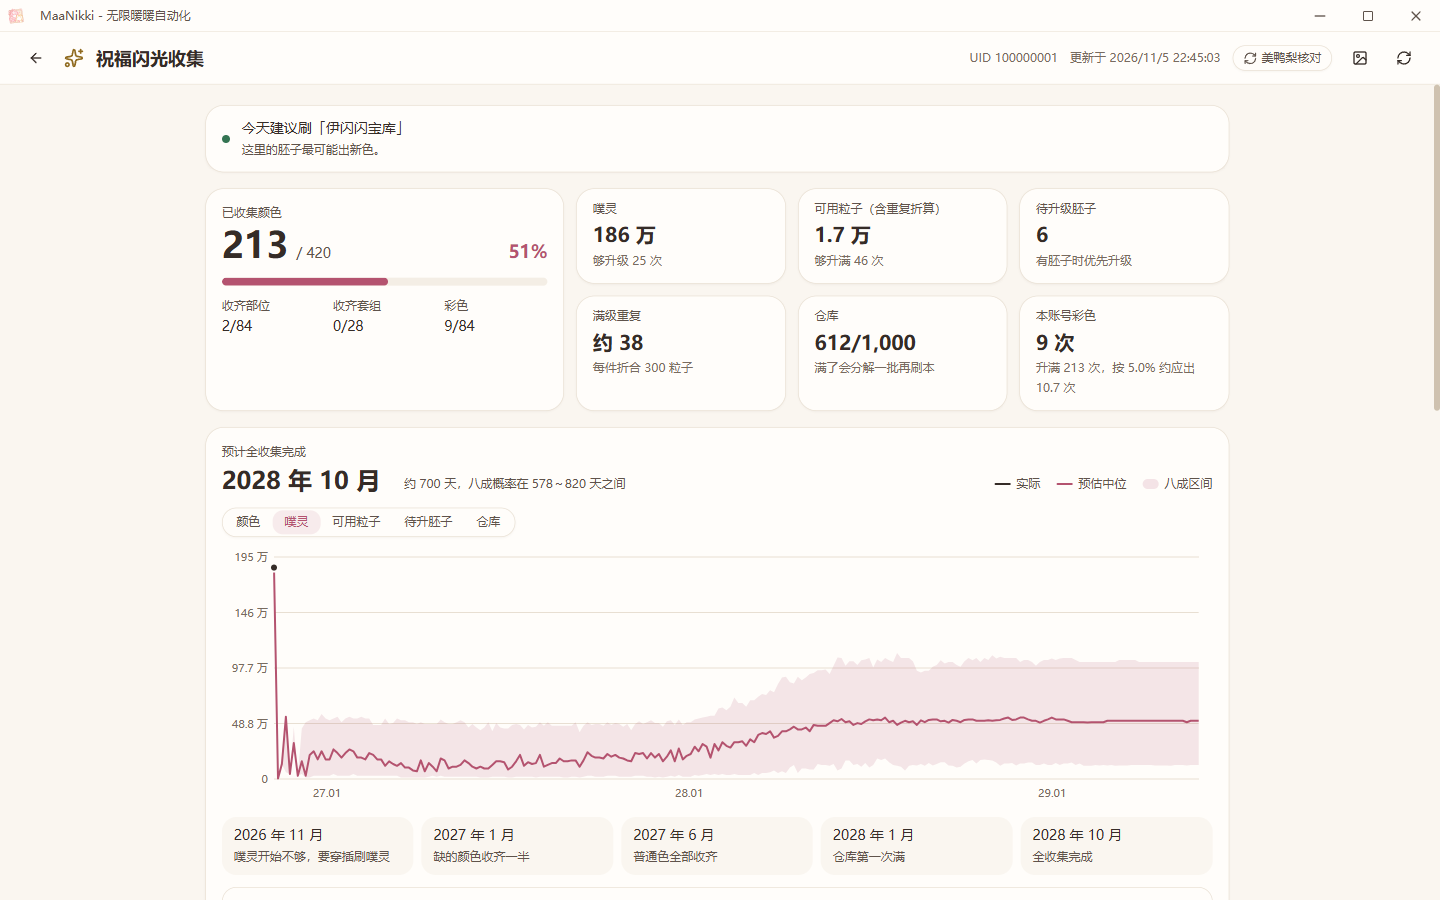
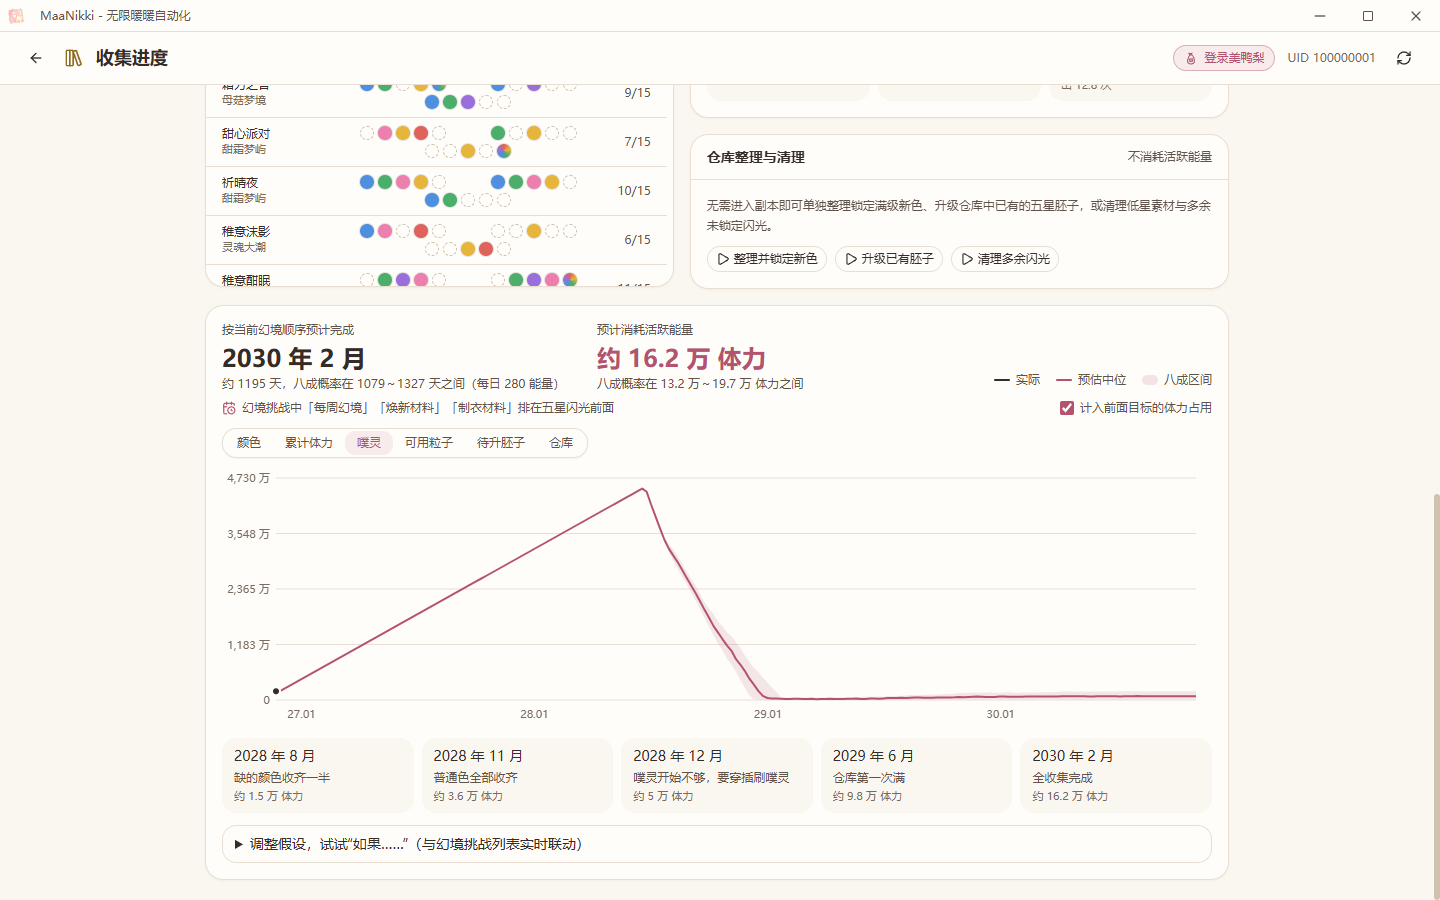
docs(readme,manual): refresh overview, manual, and UI screenshots

diff --git a/README.md b/README.md
@@ -13,7 +13,7 @@
 [![QQ群](https://img.shields.io/badge/QQ群-654174255-74a8d8)](#交流与反馈)
 [![许可](https://img.shields.io/badge/license-AGPL--3.0--only-a7bca0)](LICENSE)
 
-基于图像识别，一键完成日常，自动追全祝福闪光颜色。
+基于图像识别与全向寻路，覆盖前后台日常自动化、多目标收集与养成规划、搭配计算、大世界采集刷噗灵、探索地图标记与路线编辑。
 
 Powered by [MaaFramework](https://github.com/MaaXYZ/MaaFramework) & [MXU](https://github.com/MistEO/MXU)
 
@@ -27,43 +27,58 @@ Powered by [MaaFramework](https://github.com/MaaXYZ/MaaFramework) & [MXU](https:
 
 [已有 Mirror酱 CDK？前往 Mirror酱高速下载 →](https://mirrorchyan.com/zh/projects?rid=MaaNikki&source=maanikki_readme)
 
-首次使用请参阅[快速开始](docs/manual.md#快速开始)，配置游戏窗口、按键和任务预设。客户端支持自动检查和下载更新。
+首次使用请参阅[快速开始](docs/manual.md#快速开始)，配置游戏窗口、按键和任务预设。客户端与游戏数据（服装属性、巅峰赛排期、共鸣卡池、设计图与闪光资料）均支持自动后台检查与更新。
 
 ## 功能一览
 
-- 🌈 **祝福闪光一键全收集**：按缺失颜色选本，自动刷取、升级、锁定五星满级新颜色，支持全收集或自选套组，保存进度、接续处理。
-- 📅 **日常自动化**：美鸭梨挖掘、朝夕心愿、星海拾光、家园日常、奇迹之旅与邮箱领奖，一键安排。
-- ⚔ **幻境挑战**：每周幻境、焕新材料、制衣材料与五星闪光，按目标安排刷取顺序，按需使用活跃能量。
-- 📚 **收集进度**：读取图鉴衣柜，集中查看衣柜、制衣、焕新与祝福闪光的收集情况，规划收集目标与材料缺口。
-- 👗 **搭配计算**：按已读衣柜计算巅峰赛等比赛的单场或整期搭配，提供满星养成建议与材料缺口。
-- 🎁 **商城与巅峰赛**：免费礼包、每月五抽兑换、巅峰赛搭配挑战与奖励兑换。
-- 🧭 **探索辅助**：自动拾取、对白推进、清洁动画跳过；将美鸭梨未收集的奇想星、灵感露珠与各类宝箱标记到游戏地图，点击标记即可查看点位攻略。右侧功能区的开关随手启停。
-- 🎣 **钓鱼与采集**：自动钓鱼、大世界材料路线采集，以及每日星光结晶跑图与星忆晶树收集。
-- 🗺 **路线编辑器**：走一遍就能录下路线，在地图上拖动点位、添加采集和钓鱼等动作，试跑后加入任务。
-- ⏰ **任务管理与共鸣记录**：自动启动游戏、多配置与预设、定时执行、周期状态记录、美鸭梨共鸣记录同步、键位设置和日志导出。
+- 📅 **全套日常与周期任务**：自动启动游戏（含官方启动器更新处理），一键完成美鸭梨挖掘、朝夕心愿、星海拾光、星光结晶与星忆晶树、家园日常与巨陨星提醒、奇迹之旅、邮箱与公开兑换码领取，以及每周免费礼包、每月五抽、奇迹之冠巅峰赛挑战与兑换、结束后安全关闭游戏。
+- ⚔ **多目标幻境挑战**：统一排序每周幻境、焕新材料、制衣材料、五星祝福闪光与默认副本，实时预估体力与预计天数；自动识别限时双倍优先插队，达成当前缺口后自动衔接下一目标。
+- 📚 **收集进度与养成规划**：集中展示「我的衣柜」「制衣」「焕新」「祝福闪光」与「背包库存」五大页签，支持服装焕新快速增量同步与全量背包读取，按全收集／战力／自选分阶段规划材料缺口与走势预估，并支持美鸭梨核对与无 UID 分享图。
+- 👗 **搭配计算与满星建议**：按已读衣柜计算当期与往期巅峰赛、搭配赛的单场或整期多场次最高分搭配，支持无限之心加成、未满星原因诊断与最少养成方案，并可一键将优先升级部件同步到幻境刷取队列。
+- 🧭 **探索辅助与地图标记**：支持自动拾取、自动对白、清洁动画跳过与自动钓鱼；登录美鸭梨国服账号后在大地图与小地图扩展圈叠加未收集的奇想星、灵感露珠与各类宝箱标记，点击标记即可查看实机图文攻略（支持奇迹大陆、万相境、丹青屿、花焰群岛、无忧岛）。
+- 🌿 **大世界采集与刷噗灵**：采用全向按键闭环寻路并支持 3D 地面 AR 路径引导；支持一键开启常驻能力、姜饼人多路线串联采集大世界材料，以及花愿镇「穿梭大冒险」小游戏连刷噗灵。
+- 🗺 **可视化路线编辑器**：游戏内走一遍即可录制路线与动作朝向，在高清平面地图上搭配高度剖面、材料点覆盖与流转之柱精细调整，支持智能生成姜饼人采集路线、任意点试走／试跑诊断及多路线清单分享。
+- 📖 **共鸣记录与大地图资源**：自动同步美鸭梨国服共鸣历史，汇总累计抽数、五星分布、当期卡池进度与套装收藏（支持导出 JSON）；同步统计各大区域剩余宝箱钻石与奇想星／灵感露珠里程碑预估。
+- 📊 **后台运行与任务管理**：支持非 16:9 窗口自动调整恢复、后台运行（WASD 后台寻路 + 瞬时借位点击）、多配置页签、定时执行与运行结果推送；内置「冒险日报」与任务纪念统计，提供 7 套游戏主题色与深浅色切换。
 
-![MaaNikki 主界面：日常任务与右侧功能区辅助入口](docs/images/overview-light.png)
+![MaaNikki 主界面：日常任务、右侧功能区与运行日志](docs/images/overview-light.png)
 
 <details>
-<summary>🌈 看看祝福闪光收集进度</summary>
+<summary>⚔ 看看幻境挑战与刷取顺序</summary>
 
-![祝福闪光收集进度：总览已收集颜色、资源和预计完成时间](docs/images/collection-progress.png)
-
-![按副本、套组和部位查看已收集颜色](docs/images/collection-detail.png)
+![幻境挑战：刷取顺序、预计天数与限时双倍设置](docs/images/realm-pursuit.png)
 
 </details>
 
 <details>
-<summary>👗 看看衣柜与搭配计算</summary>
+<summary>📚 看看收集进度与衣柜规划</summary>
 
-![搭配计算：选择场次后计算最高分搭配](docs/images/wardrobe-calc.png)
+![我的衣柜：快速增量同步与套装、散件收集进度](docs/images/wardrobe-read.png)
+
+![收集进度：五大页签、收集范围与资源走势](docs/images/collection-progress.png)
+
+</details>
+
+<details>
+<summary>👗 看看搭配计算</summary>
+
+![搭配计算：选择场次后计算最高分搭配与满星建议](docs/images/wardrobe-calc.png)
 
 </details>
 
 <details>
 <summary>🗺 看看路线编辑器</summary>
 
-![路线编辑器：在地图上编辑点位和动作](docs/images/route-editor.png)
+![路线编辑器：高清地图、高度剖面与动作点位编辑](docs/images/route-editor.png)
+
+</details>
+
+<details>
+<summary>📊 看看冒险日报与共鸣记录</summary>
+
+![冒险日报：按游戏日汇总活跃能量、幻境与材料产出](docs/images/adventure-report.png)
+
+![共鸣记录：累计共鸣、五星分布、当前卡池和套装收藏](docs/images/resonance.png)
 
 </details>
 
@@ -76,9 +91,8 @@ Powered by [MaaFramework](https://github.com/MaaXYZ/MaaFramework) & [MXU](https:
 
 ## 使用说明
 
-功能设置、任务范围、祝福闪光全收集和常见问题，统一收录在[用户手册](docs/manual.md)。
-
-追全祝福闪光时，在「**收集进度 → 祝福闪光**」选择全收集或自选套组，再到「**幻境挑战 → 刷取顺序**」开启「**五星闪光**」。第一次运行会先读取或整理全部祝福闪光。[查看完整流程 →](docs/manual.md#祝福闪光全收集)
+完整配置步骤、任务说明与常见问题统一收录在[用户手册](docs/manual.md)，欢迎按需查阅：
+[快速开始](docs/manual.md#快速开始) · [日常任务](docs/manual.md#日常任务) · [幻境挑战](docs/manual.md#幻境挑战) · [收集进度](docs/manual.md#收集进度) · [辅助功能](docs/manual.md#辅助功能) · [路线编辑器](docs/manual.md#路线编辑器) · [常见问题](docs/manual.md#常见问题)
 
 ## 参与开发
 

diff --git a/CHANGELOG.md b/CHANGELOG.md
@@ -19,6 +19,10 @@
 - (服装焕新) 修复部分场景下左侧分类栏误将未选中的「外套」识别为当前分类，导致读取卡在「套装」页面并同步 0 组服装的问题。 @architect9331
 - (祝福闪光收集) 修复首次进入「祝福闪光 · 分解」界面弹出功能引导提示时未能自动点掉、导致筛选与后续日常队列连续卡死的问题。 @architect9331
 
+### 📚 文档
+
+- (首页与用户手册) 重新撰写项目说明并同步修订用户手册，补齐近期新增的日常、后台运行、收集规划、路线编辑器与冒险日报等说明，并全面更新软件界面截图。 @architect9331
+
 ## [0.9.22] - 2026-11-21
 
 ### ✨ 新功能
